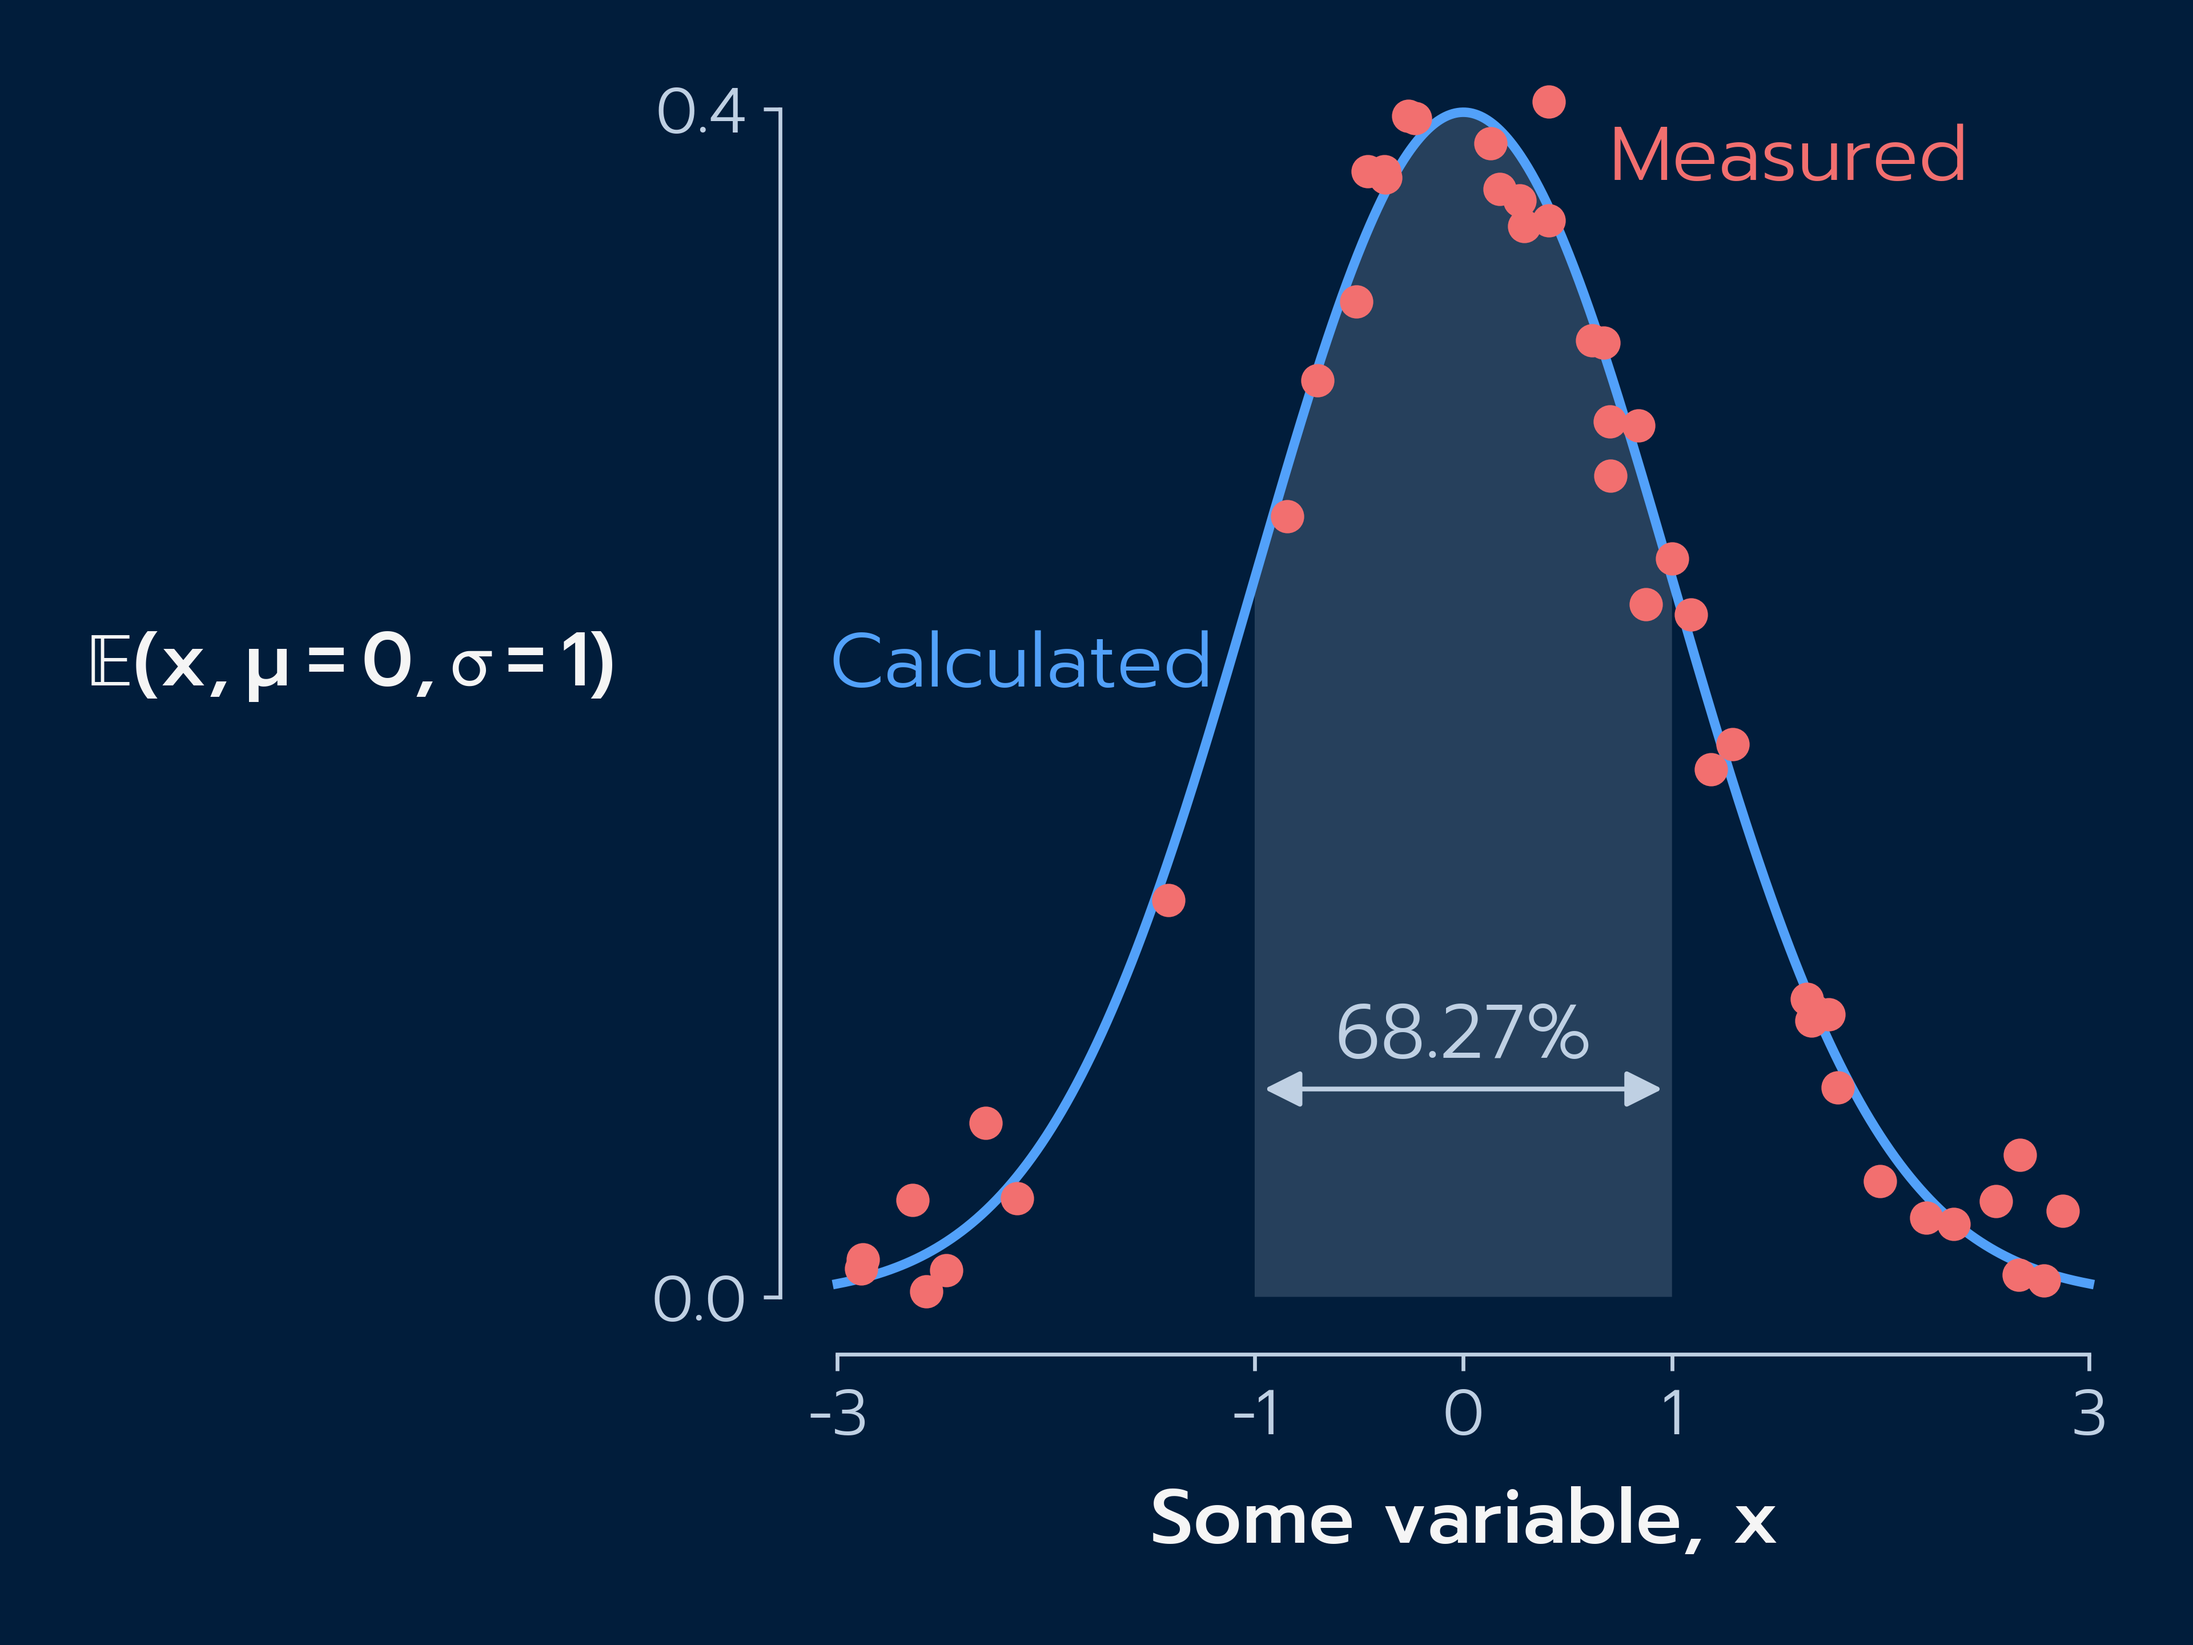
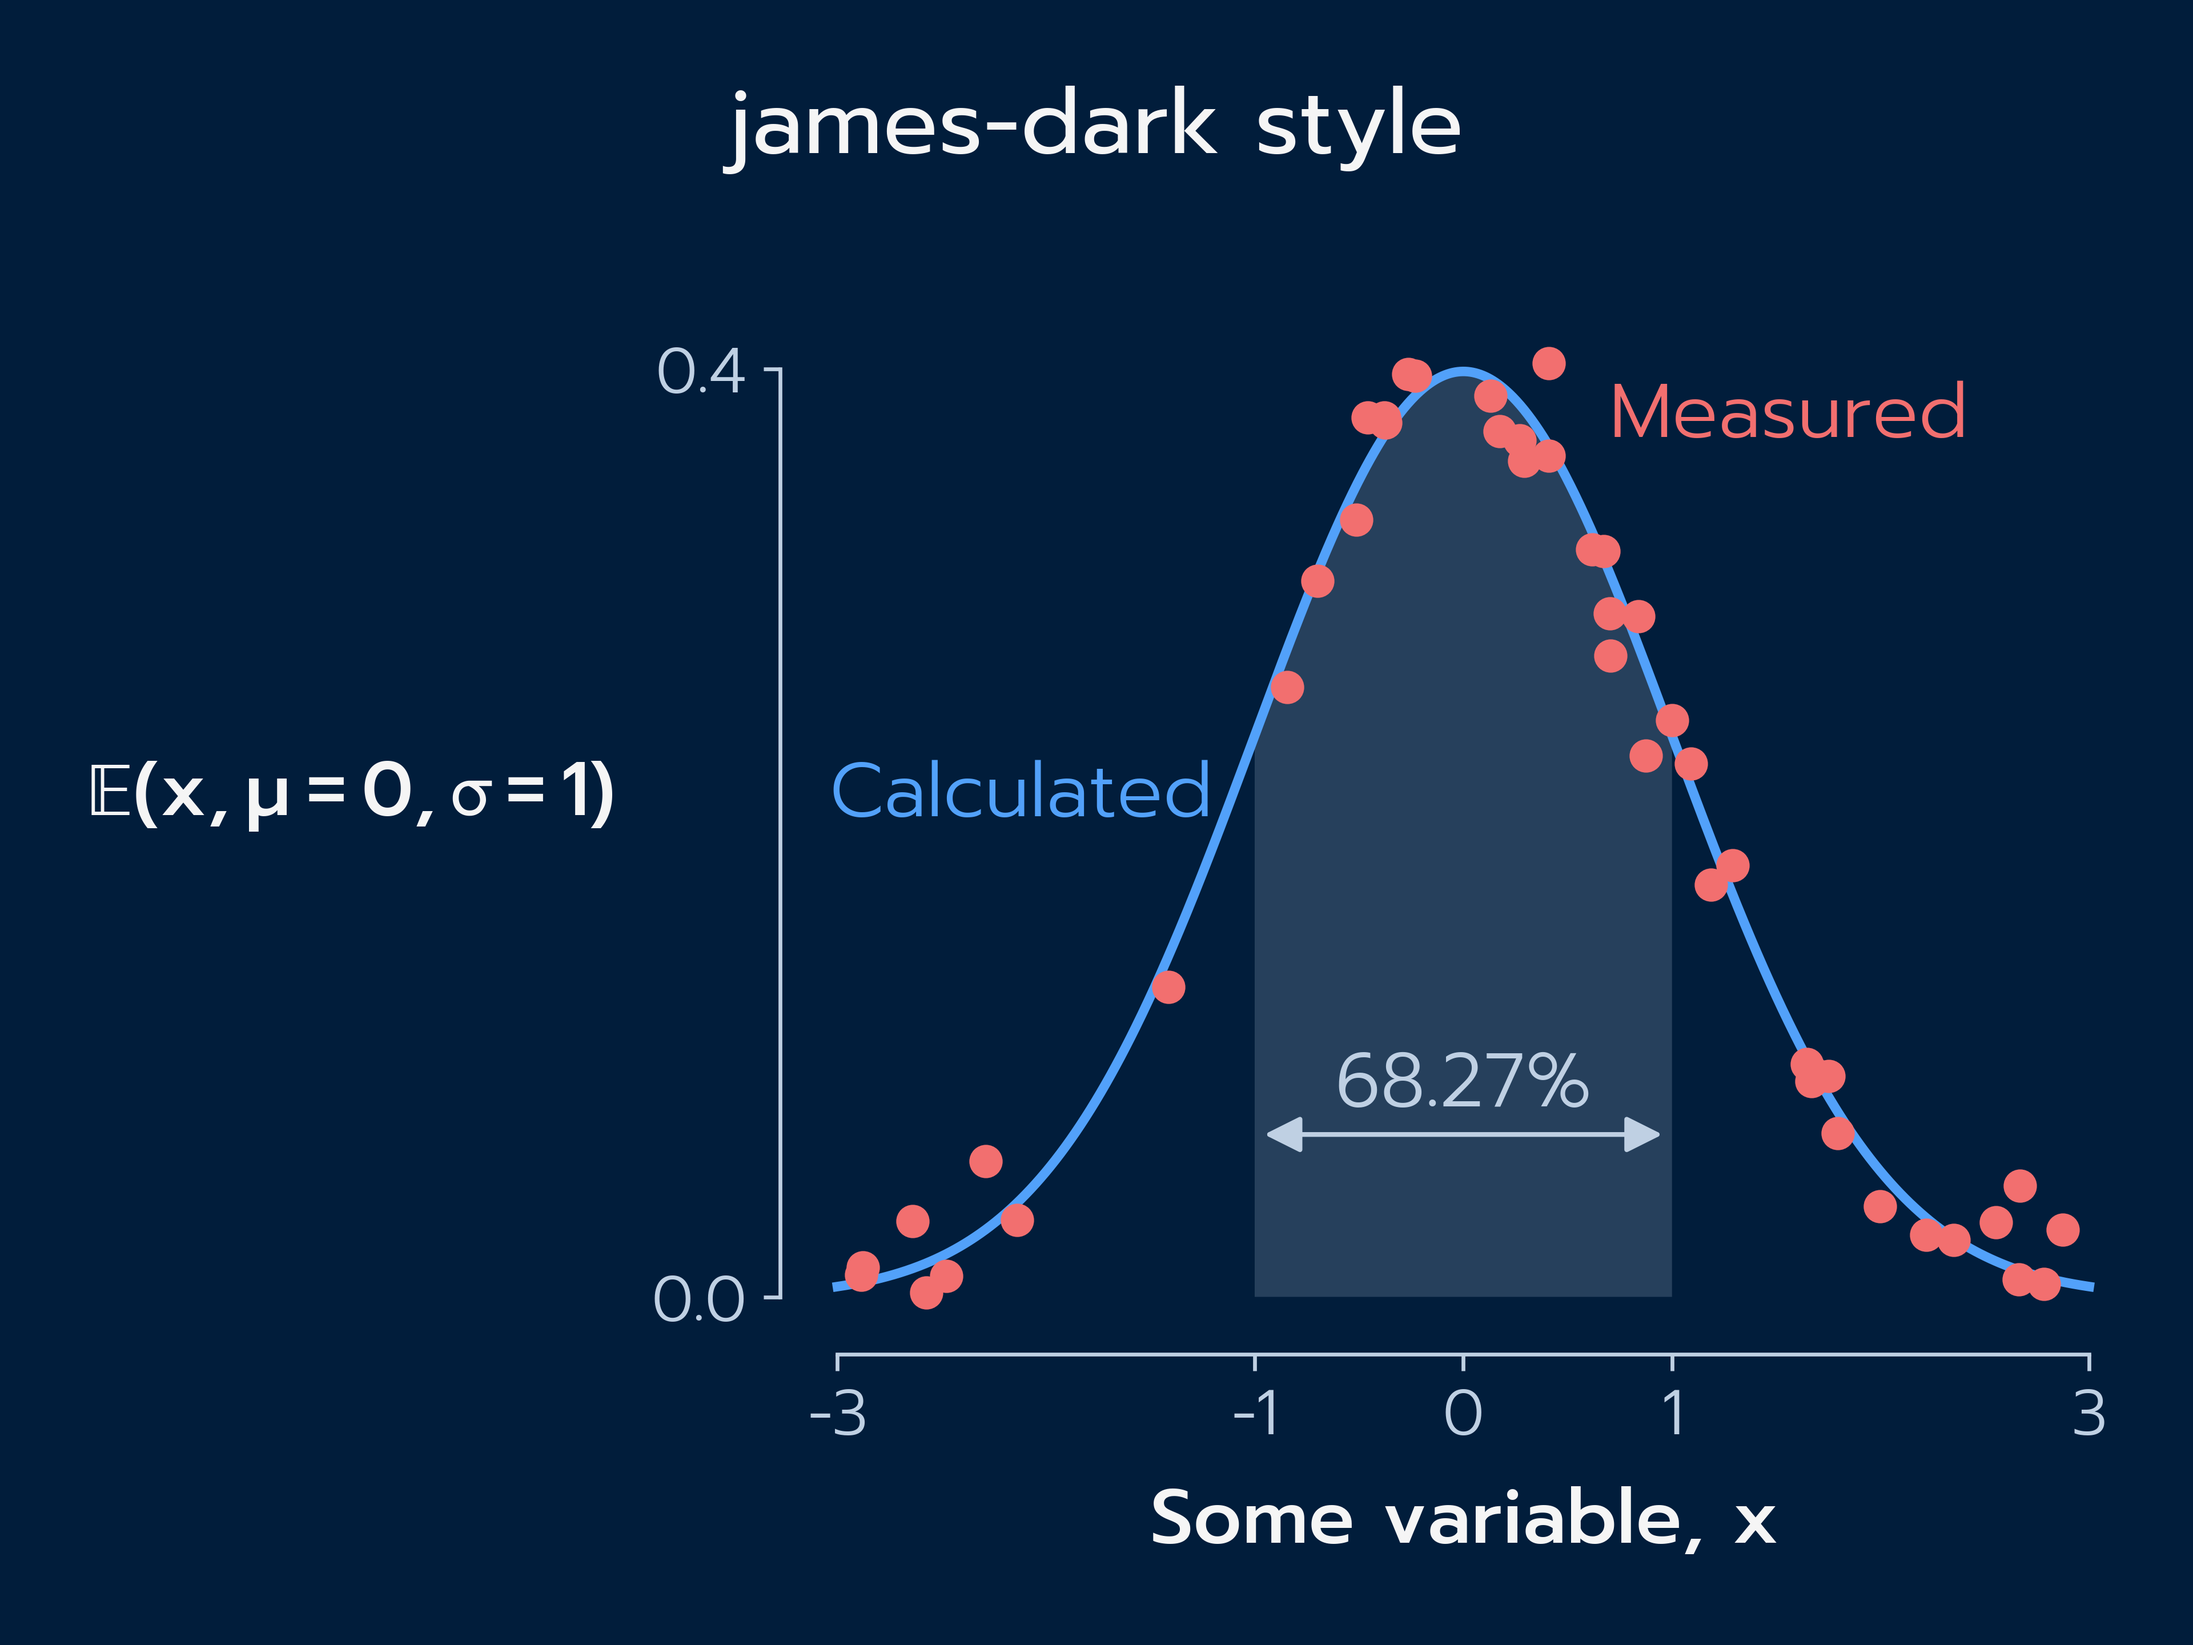
Add style names to style demo plots

diff --git a/examples/plot_style_demo.py b/examples/plot_style_demo.py
@@ -82,6 +82,8 @@ for formatting in ["default"] + niceplots.get_available_styles():
         ax.annotate("68.27%", xy=(0, 0.075), ha="center", va="bottom", color=fill_color)
         plt.annotate("", xy=(-1, 0.07), xytext=(1.0, 0.07), arrowprops=dict(arrowstyle="<|-|>", color=fill_color))
 
+        fig.suptitle(f"{formatting} style")
+
         # Plotting tip #3, use the niceplots adjust_spines function to space the axes out nicely
         if formatting != "default":
             niceplots.adjust_spines(ax)
